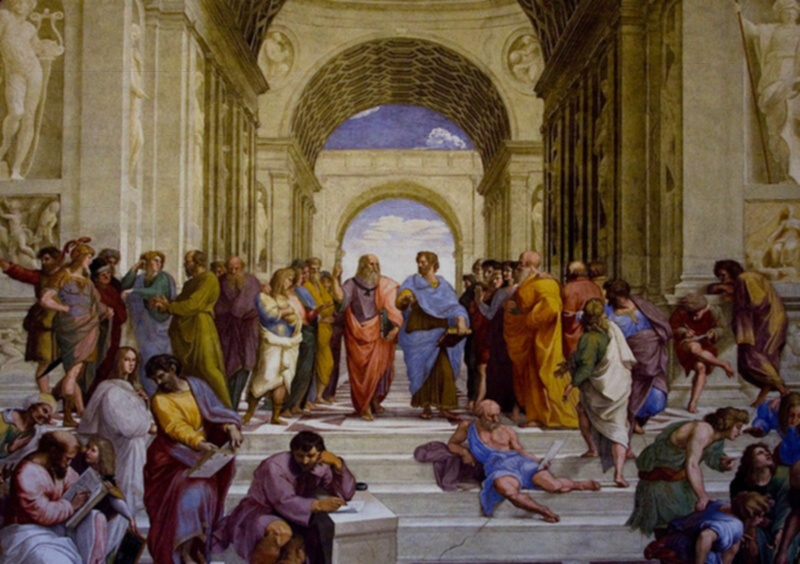
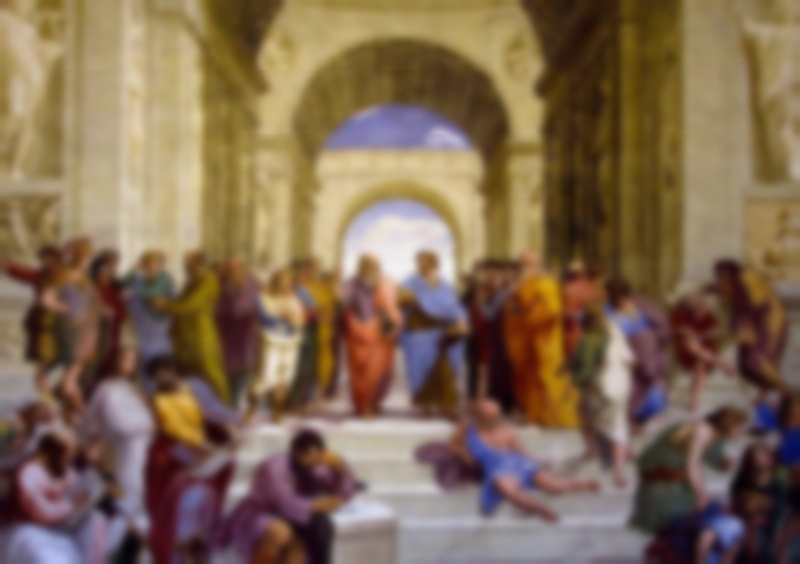
Add README.md

diff --git a/README.md b/README.md
@@ -1,0 +1,31 @@
+# Gaussian Blur
+is a method of blurring an image using the __Gaussian function__, named after the German mathematician __Carl Friedrich Gauss__. This effect is widely used in graphic editors to reduce image noise and detail.
+>[!NOTE]
+>For a more detailed study of the issue, I am attaching a link to >articles that explain very clearly how this algorithm works.
+> 
+> [Habr](https://habr.com/ru/articles/151157/)
+> 
+> [Wiki](https://en.wikipedia.org/wiki/Gaussian_blur)
+
+
+## Project
+In this project I implemented this blur using OpenCV to work with the image matrix and CUDA to speed up the matrix processing. Thanks to CUDA I achieved almost 7x speedup for 8k resolution images
+
+## Code
+__To run the program, you need to pass arguments:__
+```
+./GaussianBlur imgFileName resFileName sigma sizeOfConvMatrix
+```
+
+### Example
+before
+![test](./img/test.jpg)
+
+after
+![res](./img/res.jpg)
+
+
+
+
+
+
